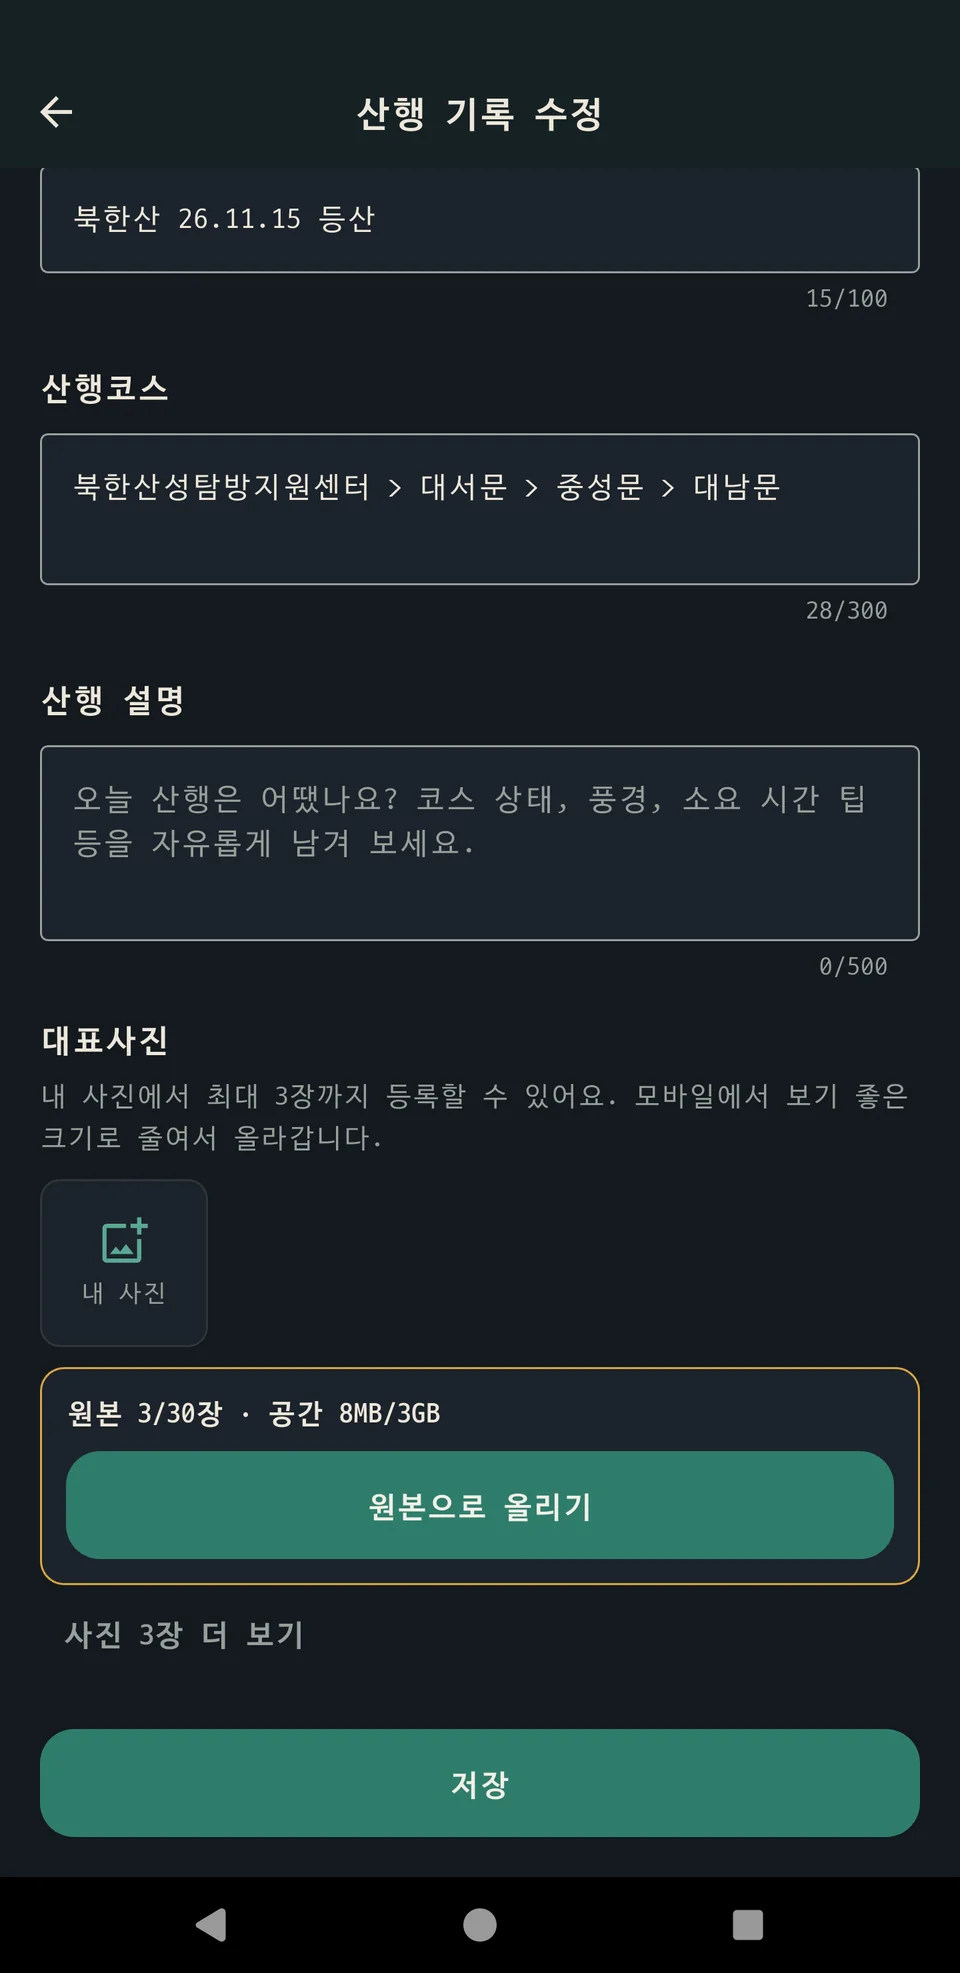
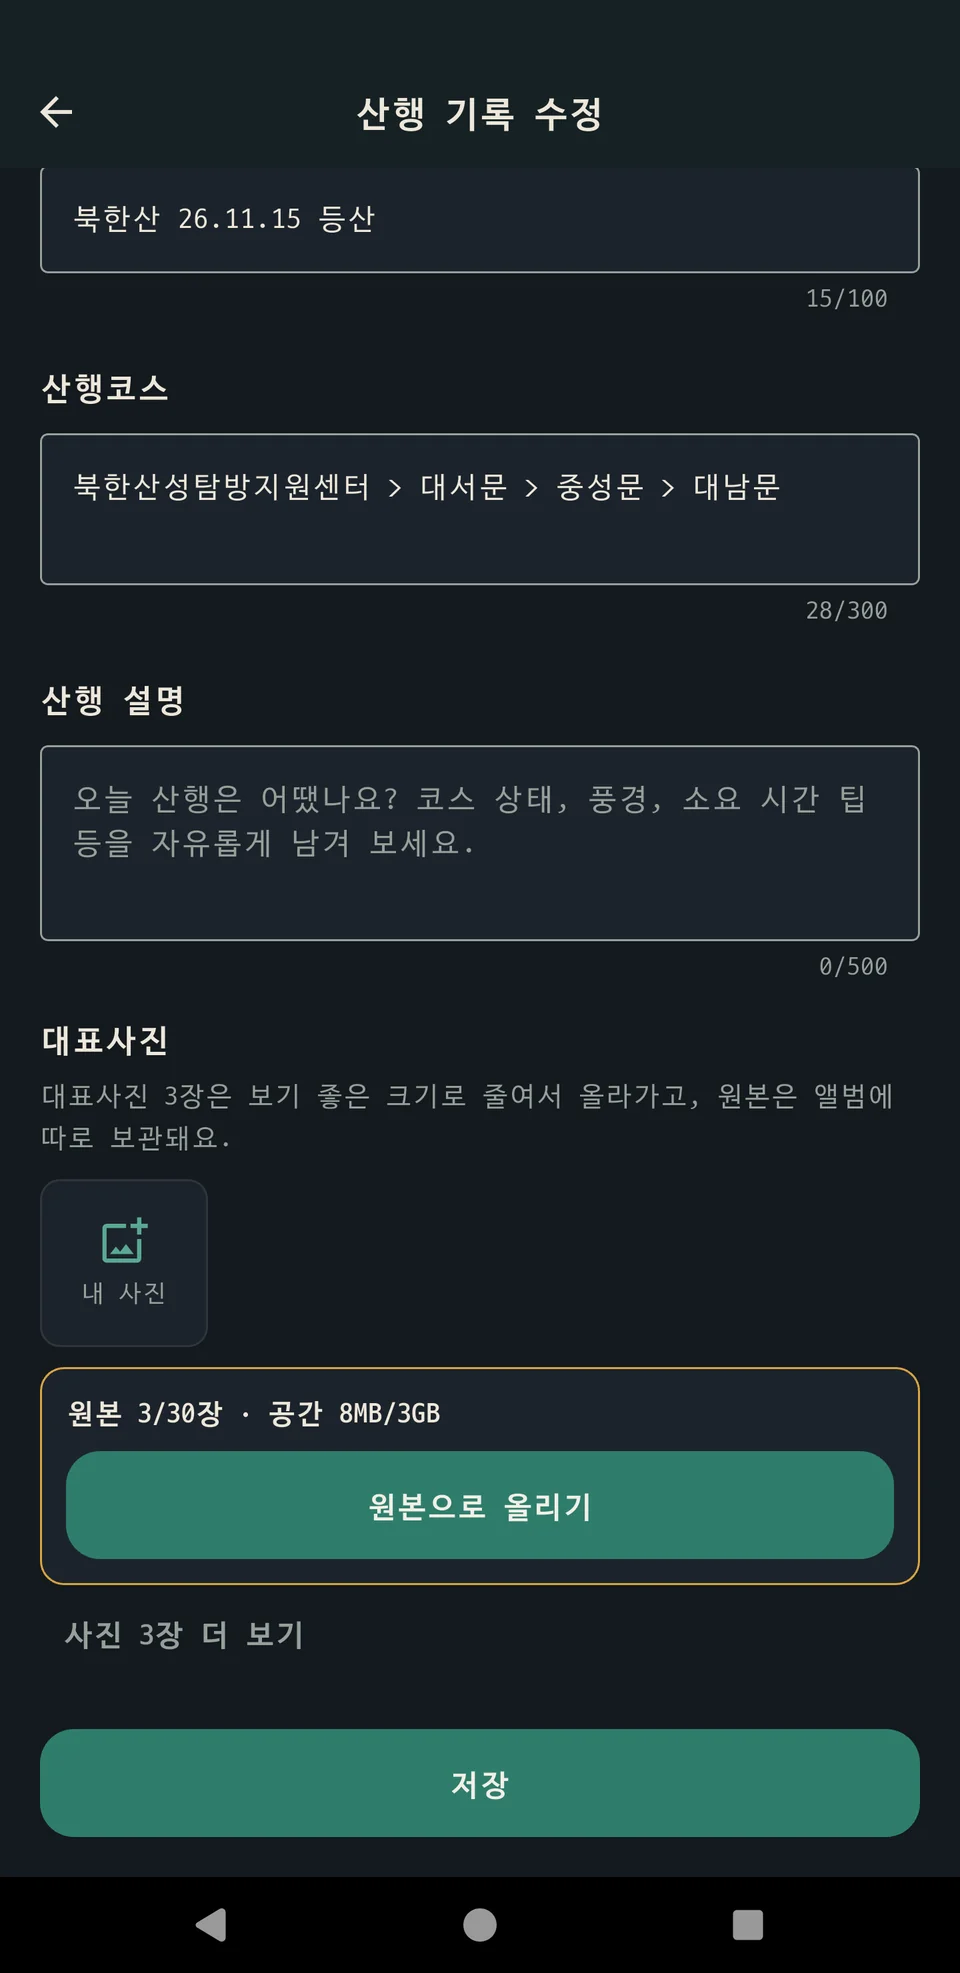
산바라기 매뉴얼: 앨범 무료 안내 그림 10-9 추가 · 10-3 대표사진 문구 재촬영

diff --git a/sanbaragi/manual-data.js b/sanbaragi/manual-data.js
@@ -396,10 +396,10 @@ window.MANUAL = {
           tips: ['보낸 사람이 공유를 끝내면 그 산행은 더 이상 보이지 않습니다.'] },
 
         { id: 'album-plan', title: '무료와 구독의 차이', desc: '앨범은 누구나 쓸 수 있고, 구독(베이직·프로)하면 원본 보관과 공유가 더해집니다.',
-          shots: [],
+          shots: [ { img: '10-9-앨범-무료안내', caption: '무료 앨범의 「최근 3회분」 안내', marks: [[1, 3.0, 15.0], [2, 66.0, 22.9]] } ],
           steps: [
-            ['·', '무료', ' — 산행마다 압축 사진 3장(대표사진)을 올립니다. 앨범에는 최근 산행 3회분이 보이고, 줄을 누르면 그 산행 기록이 열립니다. 더 지난 산행의 사진은 **내정보 → 산행이력**의 기록에서 봅니다.'],
-            ['·', '베이직·프로', ' — 원본 사진을 산행마다 베이직 30장·프로 100장, 모두 합쳐 베이직 3GB·프로 50GB까지 보관합니다. 지난 산행이 모두 앨범에 보이고, 원본 보기·회원 지정·링크 만들기를 쓸 수 있습니다.'],
+            [1, '무료', ' — 산행마다 압축 사진 3장(대표사진)을 올립니다. 앨범에는 최근 산행 3회분이 보이고, 줄을 누르면 그 산행 기록이 열립니다. 더 지난 산행의 사진은 **내정보 → 산행이력**의 기록에서 봅니다.'],
+            [2, '베이직·프로', ' — **요금제 보기**에서 구독합니다. 원본 사진을 산행마다 베이직 30장·프로 100장, 모두 합쳐 베이직 3GB·프로 50GB까지 보관합니다. 지난 산행이 모두 앨범에 보이고, 원본 보기·회원 지정·링크 만들기를 쓸 수 있습니다.'],
             ['·', '공유받은 앨범', ' — 무료로 써도 다른 회원이 지정해 준 앨범과 받은 링크는 모두 볼 수 있습니다.'],
             ['·', '구독이 끝나면', ' — 원본 보기, 새 원본 올리기, 새 공개 설정, 링크 만들기가 멈추고 내려받기와 재구독만 열려 있습니다. 원본은 1개월 동안 보관된 뒤 지워지고, 800px 사진과 산행 기록은 그대로 남습니다. 지워지는 날짜는 앨범 맨 위와 새소식에 안내되니, 그 전에 **내려받기**로 휴대폰에 옮겨 두세요.'],
           ] },

diff --git a/sanbaragi/manual.html b/sanbaragi/manual.html
@@ -152,7 +152,7 @@ nav.toc::-webkit-scrollbar-thumb{background:var(--line);border-radius:4px}
 </div>
 <script src="tabs.js?v=b26381f830"></script>
 <script src="search.js?v=01a66714cf"></script>
-<script src="manual-data.js?v=279568cf4a"></script>
+<script src="manual-data.js?v=5bbbaeb314"></script>
 <script>
 (function(){
   const M = window.MANUAL;
